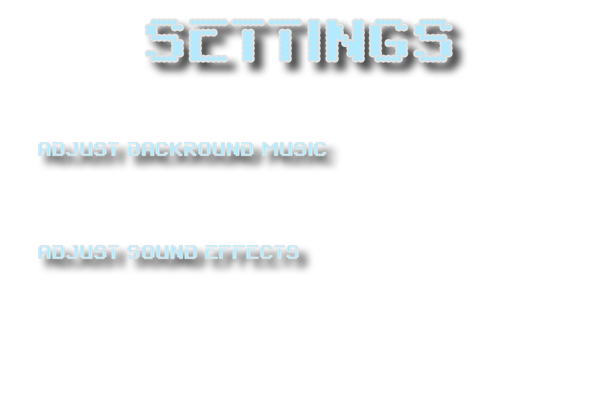
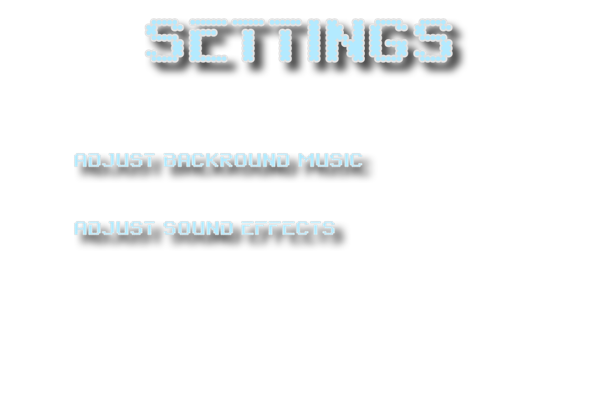
Updated based on review suggestions

Changed region(s): [[0.06, 0.54, 0.6, 0.69], [0.06, 0.33, 0.63, 0.45]]

diff --git a/src/GameWorld.java b/src/GameWorld.java
@@ -35,13 +35,15 @@ public class GameWorld extends World
     IObserver lifeObserver;
     
     // Sid - Initialized variables and instantiated objects for Settings Screen 
-    int bgmusic = 100;
-    int soundeffects = 100;
+    int bgmusic;
+    int soundeffects;
     private static final int SETTINGS_SCREEN = 5;
-    Button plus; 
-    Button minus;
-    Button plus1;
-    Button minus1;
+    Button bgmusicplus; 
+    Button bgmusicminus;
+    Button soundeffectsplus;
+    Button soundeffectsminus;
+    private final static int VOLUME_STEP = 5;
+    // over - Sid
     
     public GameWorld() {
         super(600, 400, 1, false);
@@ -50,7 +52,6 @@ public class GameWorld extends World
         this.playerLives = 3;
         this.gameState = 3;
         this.prepare();
-        prepare();
     }
     
     private void prepare() {
@@ -70,11 +71,13 @@ public class GameWorld extends World
         this.showPlayer(false);
 
         // Sid - Initialization of buttons for Settings Screen
-        
-        this.plus = new Button("plus.png", this, "bgmusic", 5);
-        this.minus = new Button("minus.png", this, "bgmusic", -5);
-        this.plus1 = new Button("plus.png", this, "soundeffects", 5);
-        this.minus1 = new Button("minus.png", this, "soundeffects", -5);
+        this.bgmusicplus = new Button("plus.png", this, "bgmusic", VOLUME_STEP);
+        this.bgmusicminus = new Button("minus.png", this, "bgmusic", -VOLUME_STEP);
+        this.soundeffectsplus = new Button("plus.png", this, "soundeffects", VOLUME_STEP);
+        this.soundeffectsminus = new Button("minus.png", this, "soundeffects", -VOLUME_STEP);
+        this.bgmusic = 50;
+        this.soundeffects = 50;
+        // over - Sid
         
         final Class[] x = { Button.class, Explosion.class, Player.class, Laser.class, Ufo.class, StartScreen.class, Moon.class};
         this.setPaintOrder(x);
@@ -226,16 +229,16 @@ public class GameWorld extends World
         if (!l.isEmpty()) {
             this.removeObjects((Collection)l);
         }
-        addObject(minus, 400, 150);
-        addObject(plus, 500, 150);
-        addObject(minus1, 400, 250);
-        addObject(plus1, 500, 250);
-        GreenfootImage text = new GreenfootImage(String.valueOf(bgmusic), 25, Color.WHITE, null, Color.WHITE);
-        Button t = new Button(text);
-        GreenfootImage text1 = new GreenfootImage(String.valueOf(soundeffects), 25, Color.WHITE, null, Color.WHITE);
-        Button t1 = new Button(text1);
-        addObject(t, 450, 150);
-        addObject(t1, 450, 250);
+        addObject(bgmusicminus, 400, 160);
+        addObject(bgmusicplus, 500, 160);
+        addObject(soundeffectsminus, 400, 230);
+        addObject(soundeffectsplus, 500, 230);
+        GreenfootImage bgmusiclabel = new GreenfootImage(String.valueOf(bgmusic), 25, Color.WHITE, null, Color.WHITE);
+        GreenfootImage soundeffectslabel = new GreenfootImage(String.valueOf(soundeffects), 25, Color.WHITE, null, Color.WHITE);
+        Button bgmusiclevellabel = new Button(bgmusiclabel);
+        Button soundeffectslevellabel = new Button(soundeffectslabel);
+        addObject(bgmusiclevellabel, 450, 160);
+        addObject(soundeffectslevellabel, 450, 230);
     }
     
     // End of Methods for Settings Screen - Sid

diff --git a/src/Button.java b/src/Button.java
@@ -12,58 +12,34 @@ import java.util.Collection;
  */
 public class Button extends Actor
 {
-    GreenfootImage i;
     private GameWorld gw;
     int val;
     String soundtype;
-    public Button(String image, GameWorld gw, String soundtype, int val)
+    public Button(String imagefilename, GameWorld gw, String soundtype, int val)
     {
-        setImage(new GreenfootImage(image));
+        setImage(new GreenfootImage(imagefilename));
         this.gw = gw;
         this.val = val;
         this.soundtype = soundtype;
     }
     
-    public Button(GreenfootImage t)
+    public Button(GreenfootImage textlabel)
     {
-        setImage(t);
+        setImage(textlabel);
     }
     
     public void act()
     {
         if (Greenfoot.mouseClicked(this)){
             if(soundtype == "bgmusic"){
-                if(val > 0){
-                    if(gw.bgmusic < 100){
-                        gw.bgmusic += val;
-                        (gw.introMusic).setVolume(gw.bgmusic);
-                    }
-                    else{gw.bgmusic = 100;}
-                }
-                else if(val < 0){
-                    if(gw.bgmusic > 0){
-                        gw.bgmusic += val;
-                        (gw.introMusic).setVolume(gw.bgmusic);
-                    }
-                    else{gw.bgmusic = 0;}
-                }
+                gw.bgmusic += val;
+                gw.bgmusic = gw.bgmusic > 100 ? 100 : (Math.max(gw.bgmusic, 0));
+                (gw.introMusic).setVolume(gw.bgmusic);
             }
             else if(soundtype == "soundeffects"){
-                if(val > 0){
-                    if(gw.soundeffects < 100){
-                        gw.soundeffects += val;
-                        (gw.gameMusic).setVolume(gw.soundeffects);
-                    }
-                    else{gw.soundeffects = 100;}
-                    
-                }
-                else if(val < 0){
-                    if(gw.soundeffects > 0){
-                        gw.soundeffects += val;
-                        (gw.gameMusic).setVolume(gw.soundeffects);
-                    }
-                    else{gw.soundeffects = 0;}
-                }
+                gw.soundeffects += val;
+                gw.soundeffects = gw.soundeffects > 100 ? 100 : (Math.max(gw.soundeffects, 0));
+                (gw.gameMusic).setVolume(gw.soundeffects);
             }
         }
     }

diff --git a/src/SettingsScreen.java b/src/SettingsScreen.java
@@ -8,32 +8,15 @@ import greenfoot.Color;
 
 public class SettingsScreen extends Actor
 {   
-    GreenfootImage i;
-    GreenfootImage bg;
+    GameWorld gw;
+    GreenfootImage gobacktext;
+    GreenfootImage gobacktext1;
     int counter;
-    
     public SettingsScreen() {
-        this.bg = new GreenfootImage("settings.png");
-        this.i = new GreenfootImage("settings2.png");
-        this.counter = 0;
+        this.gobacktext = new GreenfootImage("settings2.png");
     }
     
     public void act() {
-        switch (this.counter) {
-            case 0: {
-                this.getImage().clear();
-                this.getImage().drawImage(this.bg, 0, 0);
-                break;
-            }
-            case 30: {
-                this.getImage().drawImage(this.i, 100, 330);
-                break;
-            }
-            case 60: {
-                this.counter = -1;
-                break;
-            }
-        }
-        ++this.counter;
+        this.getImage().drawImage(this.gobacktext, 100, 325);
     }
 }
